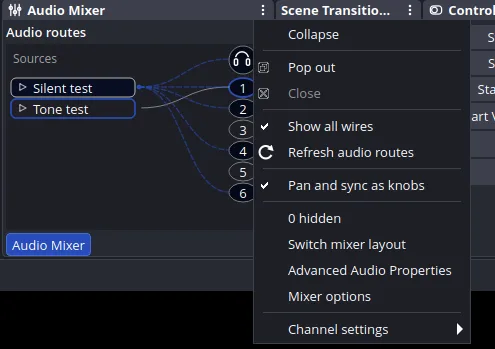
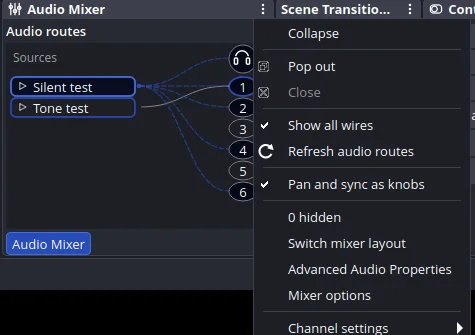
Keep AudioBus selection outlined and show all wires by default

diff --git a/tests/audio-patchbay-test.cpp b/tests/audio-patchbay-test.cpp
@@ -66,7 +66,7 @@ int main(int argc,char **argv){
  auto *all=routing.actions()[0];
  auto *reload=routing.actions()[1];
  REQUIRE(all->objectName()=="aftermarket-show-all-wires");
- REQUIRE(all->text()=="Show all wires"&&all->isCheckable()&&!all->isChecked());
+ REQUIRE(all->text()=="Show all wires"&&all->isCheckable()&&all->isChecked());
  REQUIRE(reload->objectName()=="aftermarket-refresh-audio-routes");
  REQUIRE(reload->text()=="Refresh audio routes"&&!reload->isCheckable());
  REQUIRE(!reload->icon().isNull()); // Qt theme / QStyle, not a Unicode refresh glyph
@@ -109,14 +109,43 @@ int main(int argc,char **argv){
  REQUIRE(bay.routeCount()==3);
  REQUIRE(bay.selectedId()=="voice");
  REQUIRE(menu->actions()[2]->isChecked());
- REQUIRE(bay.visibleCableCount()==7);
- REQUIRE(!bay.showAllWires());
- all->trigger();app.processEvents();
- REQUIRE(all->isChecked()&&bay.showAllWires());
+ // All connections are visible immediately, including unselected sources.
  REQUIRE(bay.visibleCableCount()==10);
+ REQUIRE(bay.showAllWires());
+ // Hovering an output must not collapse all-wires to that single target.
+ const QPoint firstOutput(canvas->width()-26,43);
+ sendMouse(canvas,QEvent::MouseMove,firstOutput,Qt::NoButton,Qt::NoButton);
+ REQUIRE(bay.visibleCableCount()==10);
+ sendMouse(canvas,QEvent::MouseMove,QPoint(canvas->width()/2,24),Qt::NoButton,Qt::NoButton);
+ REQUIRE(bay.visibleCableCount()==10);
+ // Selection must not hide unrelated connections when all-wires is on.
+ const auto selectedStart=canvas->grab().toImage();
+ const QColor initialSelectedBorder=selectedStart.pixelColor(5,43);
+ const QColor initialBrowserBorder=selectedStart.pixelColor(5,75);
+ REQUIRE(bay.selectSource("browser"));
+ app.processEvents();
+ REQUIRE(bay.visibleCableCount()==10);
+ const auto selectedBrowser=canvas->grab().toImage();
+ REQUIRE(selectedBrowser.pixelColor(5,43)!=initialSelectedBorder);
+ REQUIRE(selectedBrowser.pixelColor(5,75)!=initialBrowserBorder);
+ REQUIRE(bay.selectSource("voice"));
+ app.processEvents();
+ REQUIRE(canvas->grab().toImage().pixelColor(5,43)==initialSelectedBorder);
+ // Selected outline is theme-aware and different from the signal border.
+ auto initialPalette=canvas->palette();
+ auto selectedPalette=initialPalette;
+ selectedPalette.setColor(QPalette::Link,QColor(32,200,140));
+ canvas->setPalette(selectedPalette);app.processEvents();
+ REQUIRE(canvas->grab().toImage().pixelColor(5,43)!=initialSelectedBorder);
+ REQUIRE(canvas->grab().toImage().pixelColor(5,75)==initialBrowserBorder);
+ canvas->setPalette(initialPalette);app.processEvents();
+ // Explicitly turning wires off restores focused-only display.
  all->trigger();app.processEvents();
  REQUIRE(!all->isChecked()&&!bay.showAllWires());
  REQUIRE(bay.visibleCableCount()==7);
+ all->trigger();app.processEvents();
+ REQUIRE(all->isChecked()&&bay.showAllWires());
+ REQUIRE(bay.visibleCableCount()==10);
  // The title menu is rebuilt at every opening; the checked state must
  // come from the graph, rather than from a transient QAction.
  bay.setShowAllWires(true);
@@ -207,6 +236,10 @@ int main(int argc,char **argv){
  bay.refreshLevels();app.processEvents();
  auto after=canvas->grab().toImage();
  REQUIRE(before!=after);
+ // The selected source keeps its distinct outer stroke; active signal adds
+ // an inner highlight, without turning selection into an activity claim.
+ REQUIRE(after.pixelColor(5,43)==before.pixelColor(5,43));
+ REQUIRE(after.pixelColor(8,43)!=before.pixelColor(8,43));
  int sourceOutlinePixels=0,outputOutlinePixels=0,oldSourceDotPixels=0,
      oldOutputDotPixels=0,leftIconPixels=0;
  for(int y=38;y<=48;++y){

diff --git a/src/audio-patchbay.cpp b/src/audio-patchbay.cpp
@@ -74,7 +74,9 @@ class AudioPatchbay::Canvas final : public QWidget {
             target>=1&&target<=6&&(src.tracks&(1u<<(target-1)));
     }
     bool visibleWire(const RouteSource &src,int target) const {
-        if(hoveredTarget>0&&!dragging)
+        // A hover may narrow the focused-only view, but must not silently
+        // hide unrelated wires when Show all wires is enabled.
+        if(!showAll&&hoveredTarget>0&&!dragging)
             return target==hoveredTarget&&hasConnection(src,target);
         return (showAll||src.id==focusedSource())&&hasConnection(src,target);
     }
@@ -123,7 +125,7 @@ class AudioPatchbay::Canvas final : public QWidget {
 public:
     QVector<RouteSource> routes;
     QString selected;
-    bool showAll=false;
+    bool showAll=true;
     static bool sourceLive(const RouteSource &src){
         return AudioPatchbay::activityForSource(src)==ActivityState::Active;
     }
@@ -244,10 +246,9 @@ protected:
             }
             p.setFont(captionFont);
         }
-        // Draw cables behind nodes. The all-wires view is intentionally
-        // optional to avoid overwhelming small docks with unrelated routes.
-        // In all-wires mode draw other sources first, selected wires last,
-        // so the focused route stays legible. Colors still come from Qt.
+        // Show all routes by default, with focused cables painted last.
+        // The menu can still switch to a focused-only view. Colors come
+        // from Qt; hover never silently disables all-wires visibility.
         for(int pass=0;pass<2;++pass)
             for(int i=0;i<routes.size();++i){
                 const auto &src=routes.at(i);
@@ -287,17 +288,26 @@ protected:
             const bool current=src.id==selected;
             const auto rect=sourceRect(i);
             const bool focused=src.id==focusedSource();
-            // Measured source signal highlights the card perimeter,
-            // replacing the old interior status dot. Selected/hovered
-            // routes keep their fill and cable emphasis; they must not
-            // borrow the active signal outline when silent or unknown.
+            // Selection is a separate, persistent state from measured
+            // activity: use the theme's Link color for its outer outline,
+            // and the theme Highlight for live signal. A selected/live node
+            // retains both (inner activity stroke). Neither hover nor a
+            // connected route can make a silent node look active.
             const bool live=AudioPatchbay::activityForSource(src)==ActivityState::Active;
+            QColor selection=palette().color(QPalette::Link);
+            if(selection==accent||selection==base)
+                selection=paletteBlend(accent,fg,50);
             const QColor inactive=paletteBlend(muted,fg,43);
             const QColor hovered=paletteBlend(muted,fg,68);
-            p.setPen(QPen(live?accent:(focused?hovered:inactive),
-                          live?1.65:(focused?1.0:0.75)));
+            const QColor border=current?selection:(live?accent:(focused?hovered:inactive));
+            p.setPen(QPen(border,current?1.8:(live?1.65:(focused?1.0:0.75))));
             p.setBrush(current?paletteBlend(base,accent,18):base);
             p.drawRoundedRect(rect,5,5);
+            if(current&&live){
+                p.setPen(QPen(accent,1.15));
+                p.setBrush(Qt::NoBrush);
+                p.drawRoundedRect(rect.adjusted(3,3,-3,-3),3,3);
+            }
             QFont sourceFont=bodyFont;
             sourceFont.setWeight(current?QFont::Medium:QFont::Normal);
             p.setFont(sourceFont);

diff --git a/README.md b/README.md
@@ -246,10 +246,10 @@ Enable **AudioBus alternate routing view** in **OBS Settings → Aftermarket →
 
 **AudioHub (alternate routing view)** is a compact source-to-output patchbay:
 
-- **Click a source node to select it**, then click a numbered destination to toggle its route or drag the source to connect. Clicking an already-connected track toggles it off; repeating a drag never disconnects it. **Show all wires** reveals every source's routing. Hovering a source or output temporarily highlights related paths without modifying state.
-- **Routing display controls are in the Audio Mixer dock’s three-dot title menu, only while AudioBus is open:** **Show all wires** is a native checkable menu action, and **Refresh audio routes** re-queries OBS immediately. Their separate checkbox and refresh button have been removed from the routing header. Reopening the menu preserves the wire toggle state, while normal automatic route/signal refresh continues. The menu, checked state, hover/focus presentation, fonts and refresh glyph honor OBS’s current Qt theme: the refresh shape comes from QStyle, tinted with the menu’s actual text palette rather than the desktop icon theme. Switching back to the original Audio Mixer hides the routing-only menu entries.
+- **Click a source node to select it**, then click a numbered destination to toggle its route or drag the source to connect. Clicking an already-connected track toggles it off; repeating a drag never disconnects it. **Show all wires is enabled by default**, showing every source connection immediately. You can turn it off in the dock menu for a selected-only view. Hovering a source or output highlights related paths without modifying routing or hiding unrelated wires while the all-wires view is enabled.
+- **Routing display controls are in the Audio Mixer dock’s three-dot title menu, only while AudioBus is open:** **Show all wires** is a native checkable menu action that opens **checked by default**, and **Refresh audio routes** re-queries OBS immediately. Their separate checkbox and refresh button have been removed from the routing header. Reopening the menu preserves the wire toggle state, while normal automatic route/signal refresh continues. The menu, checked state, hover/focus presentation, fonts and refresh glyph honor OBS’s current Qt theme: the refresh shape comes from QStyle, tinted with the menu’s actual text palette rather than the desktop icon theme. Switching back to the original Audio Mixer hides the routing-only menu entries.
 - The six **circular output nodes** represent OBS's actual tracks 1–6. The separate circular **headphones node** represents OBS monitoring, not Track 7. **Left-click** the headphones to toggle Off / Monitor and Output for the selected source; **right-click** it for the three-mode menu (**Off / Monitor Only / Monitor and Output**). There is no bottom monitoring dropdown. Dragging to headphones preserves an existing Monitor Only connection and never rewrites track assignments. The selected source is identified by OBS UUID, not its potentially duplicated or renamed display name.
-- **Activity is displayed by the outline of the existing nodes**, not separate status dots. A theme-highlighted outline around a source card or circular output means a recent **measured active signal**; a subdued border means silence, muted/disabled audio, or unknown/expired signal. Source selection and routing connections remain separate visual states (subtle fill and cables), so merely selecting or connecting something does not illuminate its activity outline. Output activity aggregates the eligible routed sources and respects Monitor Only. Tooltips retain the distinction between silence, muted, and unknown states. The source-type icons remain on the left, and removing the dots makes extra room for longer source names. All highlights use the active OBS theme palette. A highlighted output **does not prove a physical playback device is audible**.
+- **Source selection has its own highlighted outline**, derived from the theme's Link color and distinct from the Highlight color for **measured active audio**. The selected source stays outlined even when silent or muted; a selected, active source displays **both** (selection perimeter and an inner activity stroke). Other inactive source cards and outputs have subdued borders; active output circles use the activity highlight. Selection never implies live audio. No separate status dots are used. Output activity aggregates the eligible routed sources and respects Monitor Only. Tooltips retain the distinction between silence, muted, and unknown states. The source-type icons remain on the left, and removing the dots makes extra room for longer source names. All highlights use the active OBS theme palette. A highlighted output **does not prove a physical playback device is audible**.
 - The graph owns source selection and routing, so the **Outputs** heading, duplicate source selector, lower output-button row, bottom Monitor dropdown, and verbose stats are gone. Clicking or dragging to the circles keeps native OBS routing behavior; clicks on transparent square corners do not toggle a circle. In narrow docks the headphones stay pinned at the top. Hover previews and **Show all wires** continue working.
 
 ![AudioBus routing with active source cards and outputs highlighted by their outlines, without status dots](docs/screenshots/readme/audiohub-activity-outlines.webp)

diff --git a/ACTIVE_WORK.md b/ACTIVE_WORK.md
@@ -2255,3 +2255,55 @@ Boundaries and remaining architecture audit:
   future adapters require concrete user value and real runtime tests.
 - User OBS needs restart to load installed library. No GitHub push or release
   requested. No scene/audio data was touched.
+
+## Slice 50 — independent selected AudioBus outline; all wires on by default (2026-11-23)
+
+User requested two focused changes to the existing AudioBus canvas:
+1. Selected audio source nodes must retain a distinct outline, not just a
+   filled background, even when their measured audio is not active.
+2. Show all wires must be enabled when the routing view first opens.
+
+Implementation:
+- The selected source uses the current Qt QPalette::Link color for its
+  outer border, with a palette-derived fallback if it matches the signal
+  Highlight or node background. The existing measured Active signal keeps
+  the Qt QPalette::Highlight color. A selected+active node has both:
+  selection outer perimeter, live signal inner line. Unselected active
+  sources retain their signal-color perimeter, and inactive unselected
+  nodes remain subdued. No dots or hardcoded colors were introduced.
+  The selected route's subtle fill, source icon, ports and cables remain.
+- Canvas::showAll defaults true; each new AudioBus view immediately draws
+  all connected source/target wires, and the native dock menu Show all
+  wires QAction opens checked. The option remains reversible at runtime.
+  Hovering a destination no longer filters unrelated wires while all-wires
+  is enabled; focused-only hover behavior remains in the off mode.
+  No change to OBS routing, monitoring, or source names/settings.
+
+Verification:
+- TDD red: initial default-check assertion failed with pre-change code;
+  green test covers default all-wire cable count (10 for fixture), native
+  checked menu state, hover keeping all 10 cables, selection changes
+  retaining all wires, toggling to focused-only (7 cables), and full
+  rebuild of a fresh QAction reflecting the current graph state.
+- Focused Qt image tests verify selection outer pixels change on selection,
+  unselected nodes stay subdued, Link palette color changes selected
+  border only, live audio adds an inner activity stroke without losing
+  selected border, and prior mute/live/theme/output signal tests still pass.
+- Actual OBS Studio 32.2.0 isolated Xvfb profile using two media sources
+  (Tone test and Silent test), with exact compiled module loaded at its
+  sandbox path. Screenshots show selected Silent test node outlined and
+  wires from both sources visible at startup, while the Audio Mixer dock
+  title menu opens with Show all wires checked. README routing screenshots
+  updated to this new behavior.
+- Full build with no warnings, serial CTest **24/24 passed**,
+  git diff --check clean.
+- Installed byte-exact module SHA256
[1 lines of base64/hex data omitted]
+  at ~/.config/obs-studio/plugins/obs-ui-augment/bin/64bit/obs-ui-augment.so.
+  Backed up previous binary to
+  ~/.local/share/aftermarket/rollback/obs-ui-augment.pre-selected-outline-all-wires.dd67f6ce0eb6.so.
+  Real user OBS PID 405867 was not restarted; four tracked user settings
+  files were byte-identical before and after installation.
+
+Boundary: existing live OBS needs restarting for the installed module to
+load. No remote push, release, source routing or audio data mutation.
